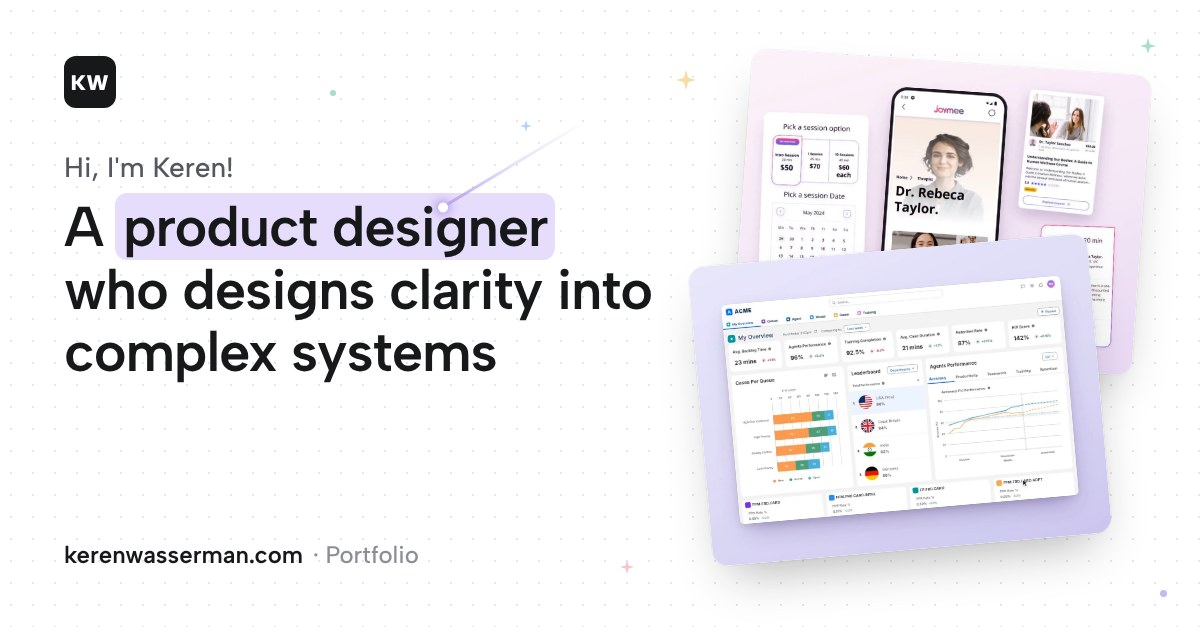
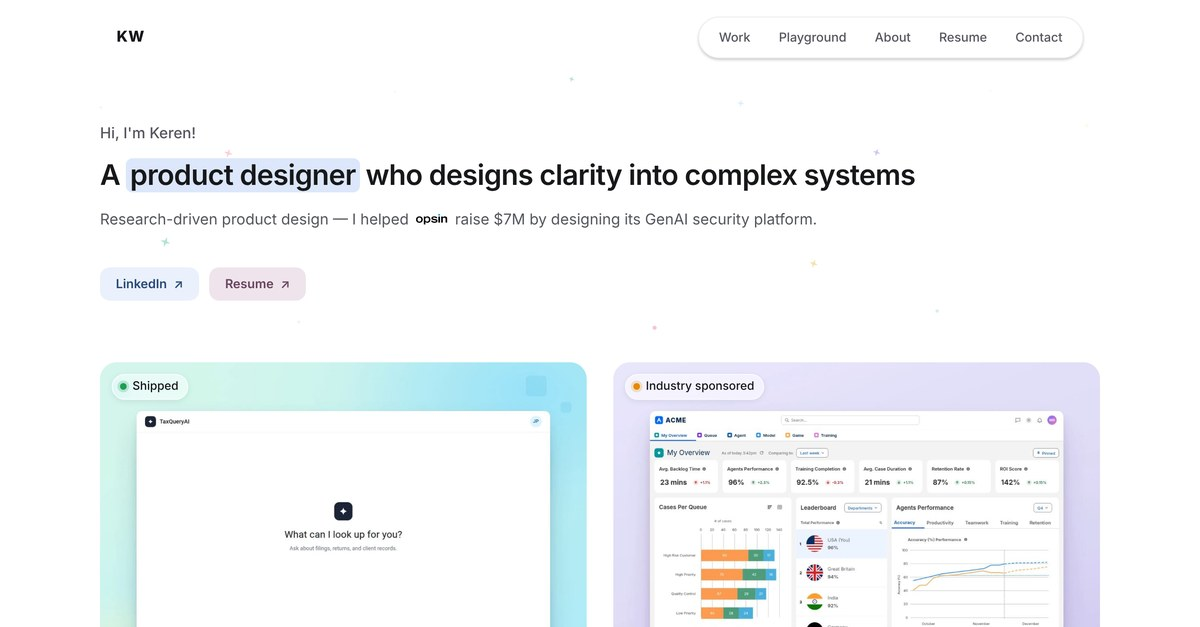
Link preview: use a screenshot of the homepage
Claude-Session: https://claude.ai/code/session_01HiqcUhiGE33yyeWVH8CXzb

diff --git a/soc.html b/soc.html
@@ -9,7 +9,7 @@
 <meta property="og:site_name" content="Keren Wasserman">
 <meta property="og:title" content="SOC Signal — Designing Effective Alerts in Cybersecurity Dashboards · Keren Wasserman">
 <meta property="og:description" content="Product designer who designs clarity into complex systems: AI security, fintech and health. Case studies, playground and an AI assistant that answers questions about my work.">
-<meta property="og:image" content="https://www.kerenwasserman.com/og-image.jpg">
+<meta property="og:image" content="https://www.kerenwasserman.com/og-image.jpg?v=2">
 <meta property="og:image:width" content="1200">
 <meta property="og:image:height" content="627">
 <meta name="twitter:card" content="summary_large_image">

diff --git a/joymee.html b/joymee.html
@@ -9,7 +9,7 @@
 <meta property="og:site_name" content="Keren Wasserman">
 <meta property="og:title" content="JoyMee — Mental Health Wellness &amp; Education Platform · Keren Wasserman">
 <meta property="og:description" content="Product designer who designs clarity into complex systems: AI security, fintech and health. Case studies, playground and an AI assistant that answers questions about my work.">
-<meta property="og:image" content="https://www.kerenwasserman.com/og-image.jpg">
+<meta property="og:image" content="https://www.kerenwasserman.com/og-image.jpg?v=2">
 <meta property="og:image:width" content="1200">
 <meta property="og:image:height" content="627">
 <meta name="twitter:card" content="summary_large_image">

diff --git a/acme.html b/acme.html
@@ -9,7 +9,7 @@
 <meta property="og:site_name" content="Keren Wasserman">
 <meta property="og:title" content="FICO — Credit Card Fraud Detection &amp; Risk Platform · Keren Wasserman">
 <meta property="og:description" content="Product designer who designs clarity into complex systems: AI security, fintech and health. Case studies, playground and an AI assistant that answers questions about my work.">
-<meta property="og:image" content="https://www.kerenwasserman.com/og-image.jpg">
+<meta property="og:image" content="https://www.kerenwasserman.com/og-image.jpg?v=2">
 <meta property="og:image:width" content="1200">
 <meta property="og:image:height" content="627">
 <meta name="twitter:card" content="summary_large_image">

diff --git a/opsin.html b/opsin.html
@@ -9,7 +9,7 @@
 <meta property="og:site_name" content="Keren Wasserman">
 <meta property="og:title" content="Opsin — GenAI Security &amp; Data Protection Platform · Keren Wasserman">
 <meta property="og:description" content="Product designer who designs clarity into complex systems: AI security, fintech and health. Case studies, playground and an AI assistant that answers questions about my work.">
-<meta property="og:image" content="https://www.kerenwasserman.com/og-image.jpg">
+<meta property="og:image" content="https://www.kerenwasserman.com/og-image.jpg?v=2">
 <meta property="og:image:width" content="1200">
 <meta property="og:image:height" content="627">
 <meta name="twitter:card" content="summary_large_image">

diff --git a/index.html b/index.html
@@ -9,7 +9,7 @@
 <meta property="og:site_name" content="Keren Wasserman">
 <meta property="og:title" content="Keren Wasserman — Product Designer">
 <meta property="og:description" content="Product designer who designs clarity into complex systems: AI security, fintech and health. Case studies, playground and an AI assistant that answers questions about my work.">
-<meta property="og:image" content="https://www.kerenwasserman.com/og-image.jpg">
+<meta property="og:image" content="https://www.kerenwasserman.com/og-image.jpg?v=2">
 <meta property="og:image:width" content="1200">
 <meta property="og:image:height" content="627">
 <meta name="twitter:card" content="summary_large_image">

diff --git a/experiment.html b/experiment.html
@@ -9,7 +9,7 @@
 <meta property="og:site_name" content="Keren Wasserman">
 <meta property="og:title" content="Playground · Keren Wasserman">
 <meta property="og:description" content="Product designer who designs clarity into complex systems: AI security, fintech and health. Case studies, playground and an AI assistant that answers questions about my work.">
-<meta property="og:image" content="https://www.kerenwasserman.com/og-image.jpg">
+<meta property="og:image" content="https://www.kerenwasserman.com/og-image.jpg?v=2">
 <meta property="og:image:width" content="1200">
 <meta property="og:image:height" content="627">
 <meta name="twitter:card" content="summary_large_image">

diff --git a/playground.html b/playground.html
@@ -9,7 +9,7 @@
 <meta property="og:site_name" content="Keren Wasserman">
 <meta property="og:title" content="Playground · Keren Wasserman">
 <meta property="og:description" content="Product designer who designs clarity into complex systems: AI security, fintech and health. Case studies, playground and an AI assistant that answers questions about my work.">
-<meta property="og:image" content="https://www.kerenwasserman.com/og-image.jpg">
+<meta property="og:image" content="https://www.kerenwasserman.com/og-image.jpg?v=2">
 <meta property="og:image:width" content="1200">
 <meta property="og:image:height" content="627">
 <meta name="twitter:card" content="summary_large_image">

diff --git a/about.html b/about.html
@@ -9,7 +9,7 @@
 <meta property="og:site_name" content="Keren Wasserman">
 <meta property="og:title" content="About · Keren Wasserman">
 <meta property="og:description" content="Product designer who designs clarity into complex systems: AI security, fintech and health. Case studies, playground and an AI assistant that answers questions about my work.">
-<meta property="og:image" content="https://www.kerenwasserman.com/og-image.jpg">
+<meta property="og:image" content="https://www.kerenwasserman.com/og-image.jpg?v=2">
 <meta property="og:image:width" content="1200">
 <meta property="og:image:height" content="627">
 <meta name="twitter:card" content="summary_large_image">
